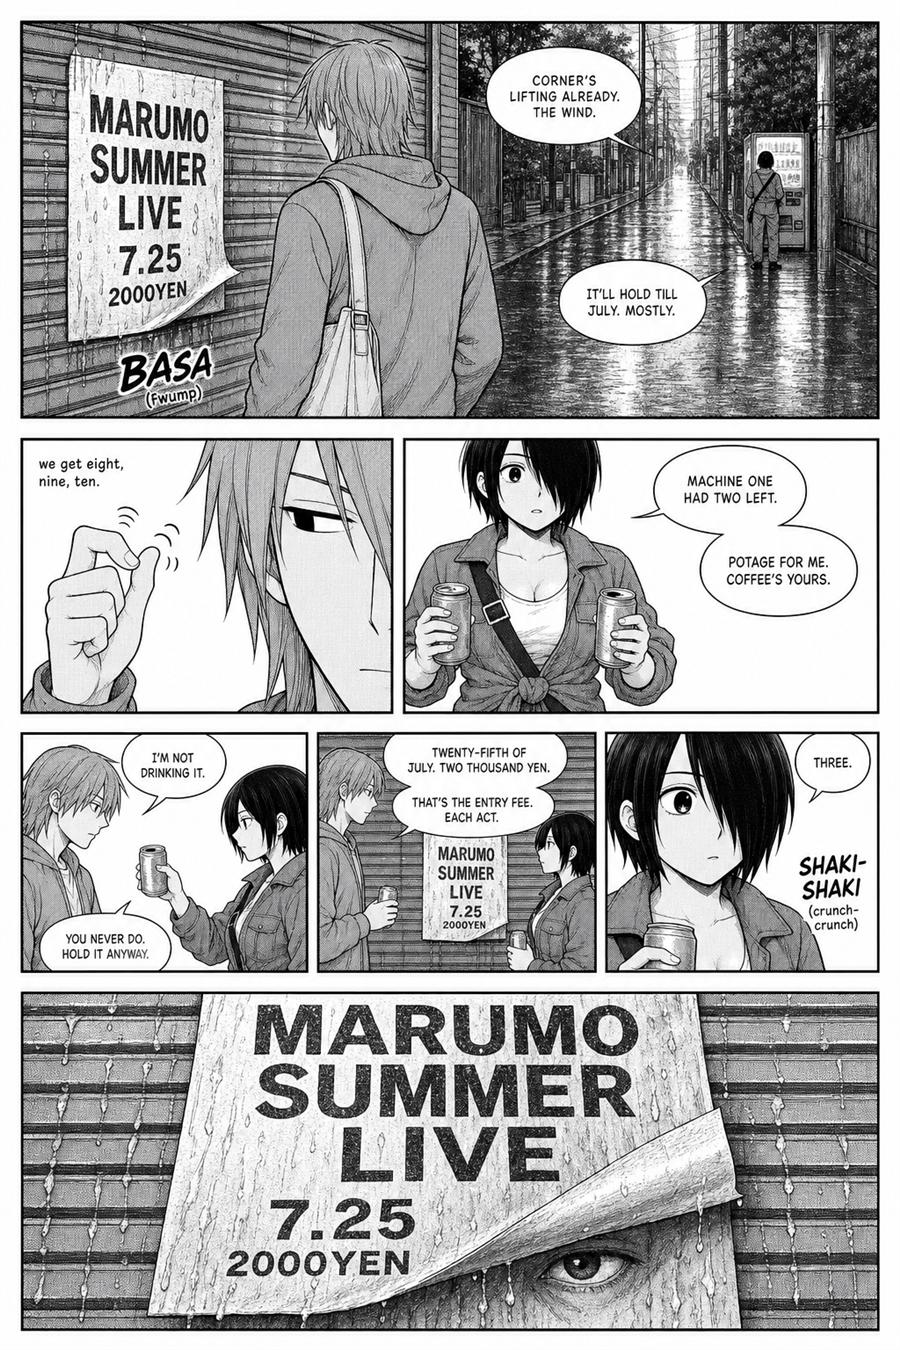
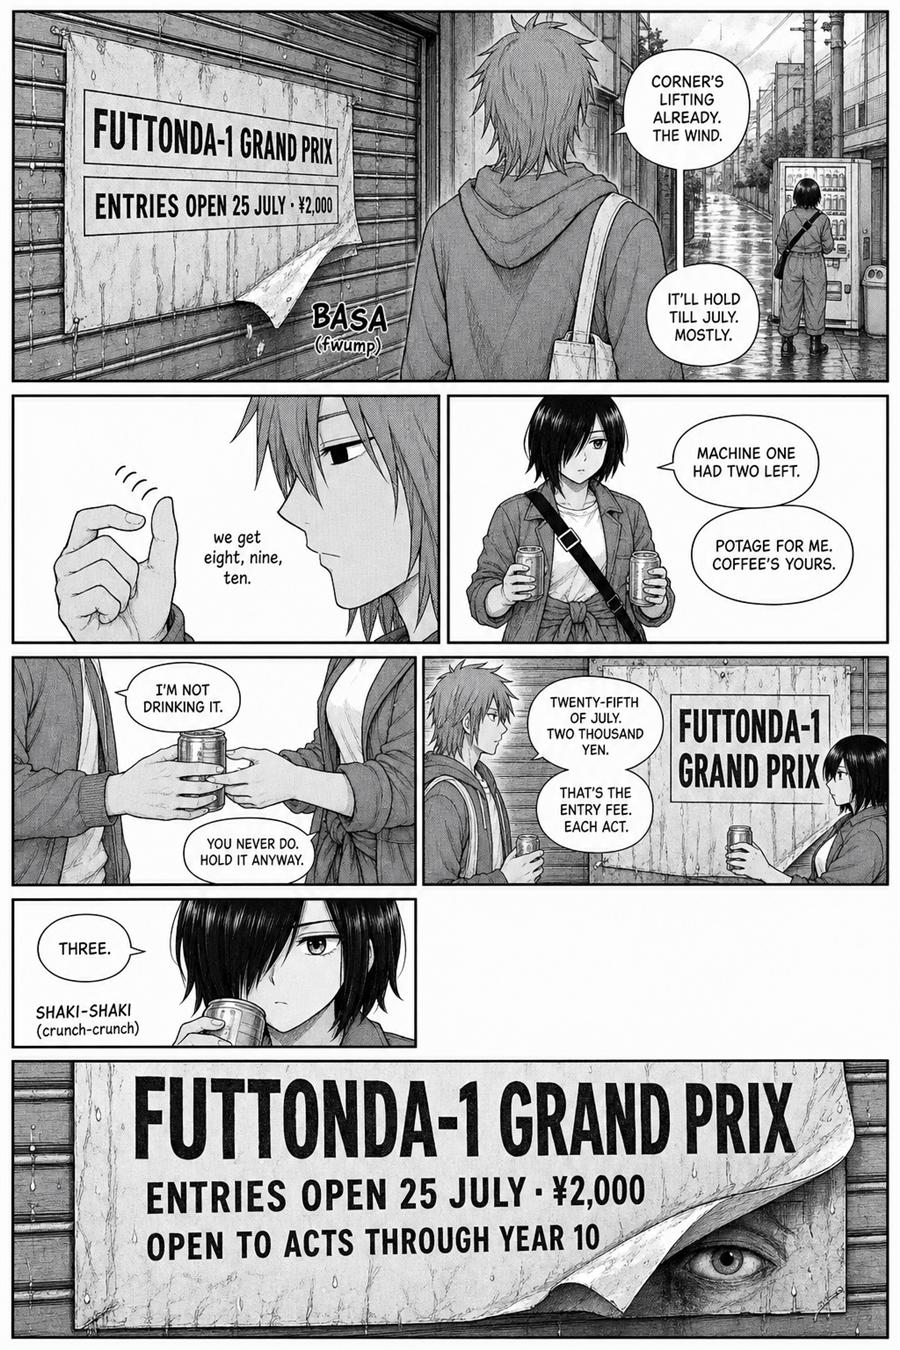
ch01: CARRIED (27 pages)

diff --git a/production/ch01/breakdown.md b/production/ch01/breakdown.md
@@ -838,7 +838,9 @@ PANEL 7 [small]: Hamada going up the ladder for the next sheet.
 
 ## PAGE 27
 
-PANEL 1 [wide]: The shutter, the wet poster, Gaku alone in front of it with his back to us. Down the street, small, Komako at a vending machine with her back turned, out of earshot.
+PANEL 1 [wide]: The shutter, the wet poster, Gaku alone in front of it with his back to us. Down the street, small, Komako at a vending machine with her back turned, out of earshot. THE POSTER IS THE FUTTONDA-1 TOURNAMENT POSTER — letter its text exactly as the captions below give it. It is NOT a venue poster and carries no other brand name.
+- CAPTION: FUTTONDA-1 GRAND PRIX
+- CAPTION: ENTRIES OPEN 25 JULY · ¥2,000
 - (Hamada): "CORNER'S LIFTING ALREADY. THE WIND."
 - (Hamada): "IT'LL HOLD TILL JULY. MOSTLY."
 - SFX: BASA (fwump)
@@ -854,7 +856,7 @@ PANEL 4 [small]: The coffee changes hands. His thumb stops.
 - (Gaku): "I'M NOT DRINKING IT."
 - (Komako): "YOU NEVER DO. HOLD IT ANYWAY."
 
-PANEL 5 [small]: Both of them side on, facing the poster now, holding cans. Neither is pointing at anything.
+PANEL 5 [small]: Both of them side on, facing the poster now, holding cans. Neither is pointing at anything. The poster behind them reads FUTTONDA-1 GRAND PRIX — never any other name.
 - (Gaku): "TWENTY-FIFTH OF JULY. TWO THOUSAND YEN."
 - (Gaku): "THAT'S THE ENTRY FEE. EACH ACT."
 
@@ -862,7 +864,10 @@ PANEL 6 [small]: Komako, front, hair across the right eye, one highlight low in 
 - (Komako): "THREE."
 - SFX: SHAKI-SHAKI (crunch-crunch)
 
-PANEL 7 [big]: Nobody in frame. The bottom corner of the fresh poster has lifted away from the shutter in the wind, curling back on itself. Underneath the new paste, from last year's layer, one printed eye is visible and nothing else of the face it belongs to. It is looking straight out at the reader, and at this size, in this ink, it could be anybody's.
+PANEL 7 [big]: Nobody in frame. The fresh poster fills the panel — big bold hand-lettered FUTTONDA-1 GRAND PRIX across the top, the entry line under it, exactly as the captions give it and with NO other brand name anywhere. Its bottom corner has lifted away from the shutter in the wind, curling back on itself. Underneath the new paste, from last year's layer, one printed eye is visible and nothing else of the face it belongs to. It is looking straight out at the reader, and at this size, in this ink, it could be anybody's.
+- CAPTION: FUTTONDA-1 GRAND PRIX
+- CAPTION: ENTRIES OPEN 25 JULY · ¥2,000
+- CAPTION: OPEN TO ACTS THROUGH YEAR 10
 
 ---
 

diff --git a/engine/locks.md b/engine/locks.md
@@ -9,6 +9,7 @@ WORLD RENDER RULES (apply on every page):
 - VENUE TEXTURE: the arch brick is 25% dot screentone with hand-inked mortar lines on only the two courses nearest the reader — never a fully drawn wall. August: three to five white flick-marks of sweat run down the tone. January: tone drops lighter and breath is drawn as white puffs. One shared center mic on a straight stand at a white gaff-tape X.
 - DAY-JOB WEAR: KOMAKO at Marumo Moving = navy coveralls in 30% tone, white oval MARUMO chest patch, wide black lumbar belt worn high; ON shift = zipped to the throat, OFF shift = top half stripped, sleeves knotted at her waist over a white tank (read her status from the sleeves). GAKU at Capsule Inn Compass = thin flat-black nylon vest over a white shirt, clip badge reading TOKITA / NIGHT always crooked low-right; off duty a gray zip hoodie and a flat canvas shoulder bag on the hip.
 - MACHINE TEXT (tabloids, brackets, KPI slides, broadcast captions): hard-geometric all-caps lettering inside a black-bordered box laid at a slight angle, never in a speech bubble, always overlapping some ordinary object in frame.
+- SIGNAGE LAW — NEVER INVENT LETTERING. Any poster, flyer, banner, sign or shopfront in a panel may ONLY carry text the PAGE SCRIPT explicitly supplies (in its captions or panel description). If the script gives no wording, draw the object with its lettering illegible — blurred strokes, a torn corner, an oblique angle — never a name you made up. In particular: MARUMO is a MOVING COMPANY and its name appears ONLY on navy coveralls and a two-ton truck — never on a poster, flyer, venue, or event of any kind. The tournament is always FUTTONDA-1 GRAND PRIX; the theater is always GEKIJŌ GAKEPPUCHI.
 
 CHARACTER LOCKS:
 
